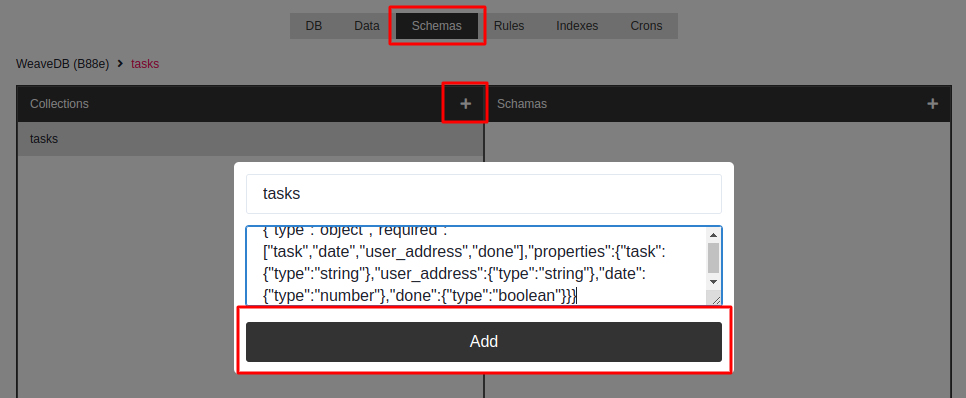
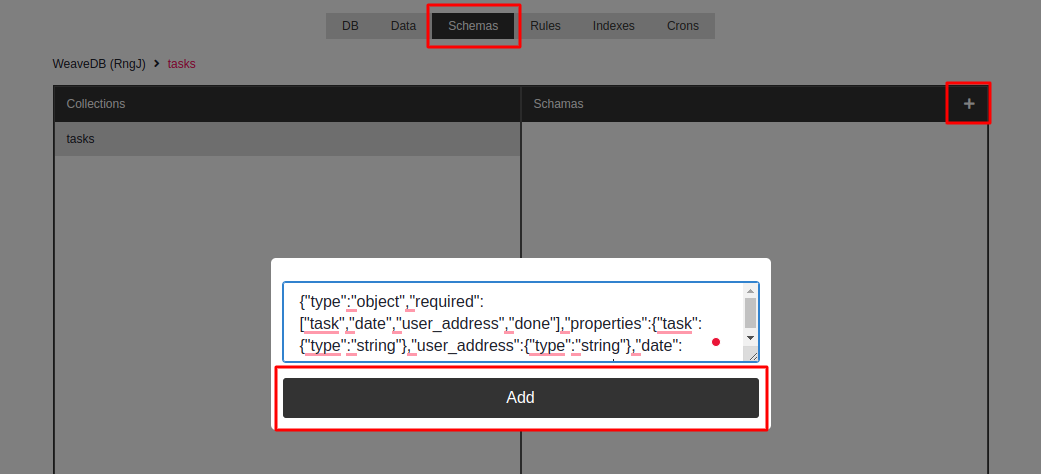
[docs/console] fix schema update flow

diff --git a/console/pages/index.js b/console/pages/index.js
@@ -499,15 +499,17 @@ export default inject(
                     <Flex py={2} px={3} color="white" bg="#333" h="35px">
                       <Box>Collections</Box>
                       <Box flex={1} />
-                      <Box
-                        onClick={() => setAddCollection(true)}
-                        sx={{
-                          cursor: "pointer",
-                          ":hover": { opacity: 0.75 },
-                        }}
-                      >
-                        <Box as="i" className="fas fa-plus" />
-                      </Box>
+                      {!includes(tab, ["Data"]) ? null : (
+                        <Box
+                          onClick={() => setAddCollection(true)}
+                          sx={{
+                            cursor: "pointer",
+                            ":hover": { opacity: 0.75 },
+                          }}
+                        >
+                          <Box as="i" className="fas fa-plus" />
+                        </Box>
+                      )}
                     </Flex>
                     {map(v => (
                       <Flex
@@ -1718,7 +1720,7 @@ export default inject(
               <Textarea
                 mt={3}
                 value={newSchemas}
-                placeholder="Access Control Rules"
+                placeholder="JSON Schema"
                 onChange={e => setNewSchemas(e.target.value)}
                 sx={{
                   borderRadius: "3px",

diff --git a/docs/docs/examples/todos-console.md b/docs/docs/examples/todos-console.md
@@ -35,6 +35,8 @@ We will only use one collection `tasks` to keep it simple.
 
 ## Data Schemas
 
+WeaveDB utilized [JSON Schema](https://json-schema.org/) to validate incoming data.
+
 ```js
 const schemas = {
   type: "object",
@@ -59,6 +61,8 @@ const schemas = {
 - `tasks` collection must have 4 fields (`task`, `date`, `user_address`, `done`).
 
 ## Access Control Rules
+
+[Access control rules](/docs/sdk/rules) are defined by [JSONLogic](https://jsonlogic.com/).
 
 ```js
 const rules = {

diff --git a/docs/docs/sdk/rules.md b/docs/docs/sdk/rules.md
@@ -59,7 +59,7 @@ You can access to various data within the validation blocks.
 ```js
 const data = {
   request: {
-    auth: { signer },
+    auth: { signer, relayer, jobID, extra },
     block: { height, timestamp },
     transaction: { id },
     resource: { data },
